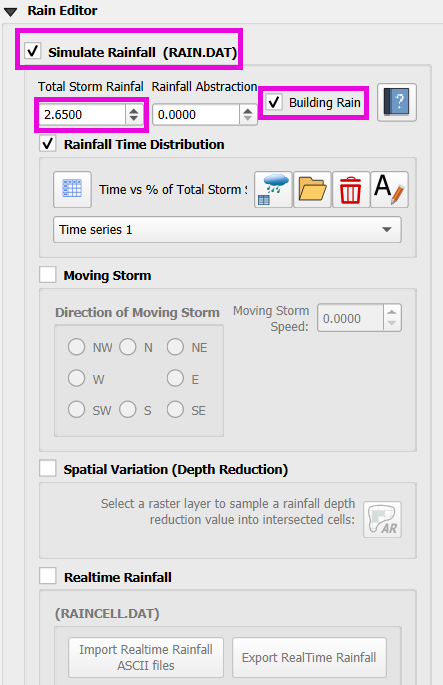
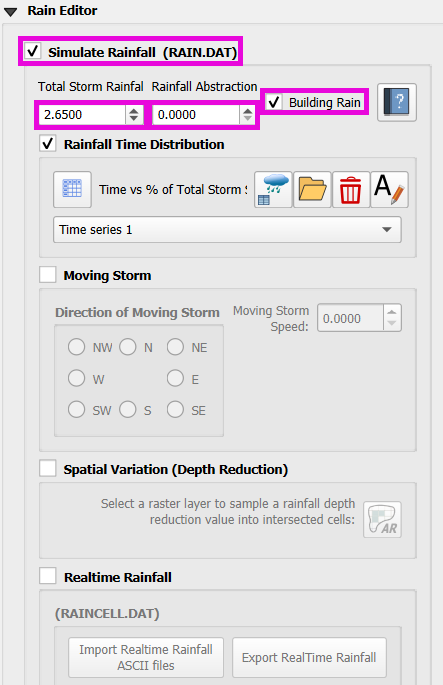
Updating hydrology tutorial: Assign Rainfall

Changed region(s): [[0.0293, 0.0307, 0.8217, 0.2146]]

diff --git a/source/tutorials/Self-Help-Kit-Gila/3-Hydrology.rst b/source/tutorials/Self-Help-Kit-Gila/3-Hydrology.rst
@@ -172,12 +172,10 @@ Step 1: Open the Rain Editor
 
 - Check **Simulate Rainfall**.
 - Set the **Total Rainfall Depth** to ``2.65 in`` (this example uses a 6-hour, 100-year event).
+- Leave **Rainfall Abstraction** at ``0.0`` for now. This is set elsewhere.
 - Check **Apply Building Rain**.
 
 .. image:: ../img/shg/3/shg_hydro019.png
-
-.. note::
-   Leave **Rainfall Abstraction** at ``0.0`` for now. This is set elsewhere.
 
 Step 2: Add a Storm Pattern
 ~~~~~~~~~~~~~~~~~~~~~~~~~~~~~~~~~~~~~~~~~
@@ -196,11 +194,8 @@ Step 2: Add a Storm Pattern
 
 .. important::
    The rainfall distribution table has:
-
-   - **Time (hours)** on the left.
-
-   - **Cumulative rainfall (0–1)** on the right.
-
+    - **Time (hours)** on the left.
+    - **Cumulative rainfall (0–1)** on the right.
    The percent values must **start at time = 0 and rainfall = 0**.
 
 Step 3: Understanding Rain on Grid
@@ -215,7 +210,6 @@ Step 3: Understanding Rain on Grid
 Step 4: Sample a Rainfall Raster (Optional)
 ~~~~~~~~~~~~~~~~~~~~~~~~~~~~~~~~~~~~~~~~~~~~~~
 You can use a **NOAA Atlas 14 rainfall raster** to apply **spatially variable rainfall**.
-
 - Drag your **24-hour rainfall raster** into QGIS.
 - Right-click the layer > **Zoom to Layer**.
 - Check the data: it should be in inches and match your coordinate system.
@@ -223,9 +217,7 @@ You can use a **NOAA Atlas 14 rainfall raster** to apply **spatially variable ra
 .. image:: ../img/shg/3/shg_hydro023.png
 
 To apply the raster:
-
 - Go to the **Rain Editor**.
-
 - Check **Sample from Raster**.
 
 .. image:: ../img/shg/3/shg_hydro024.png
